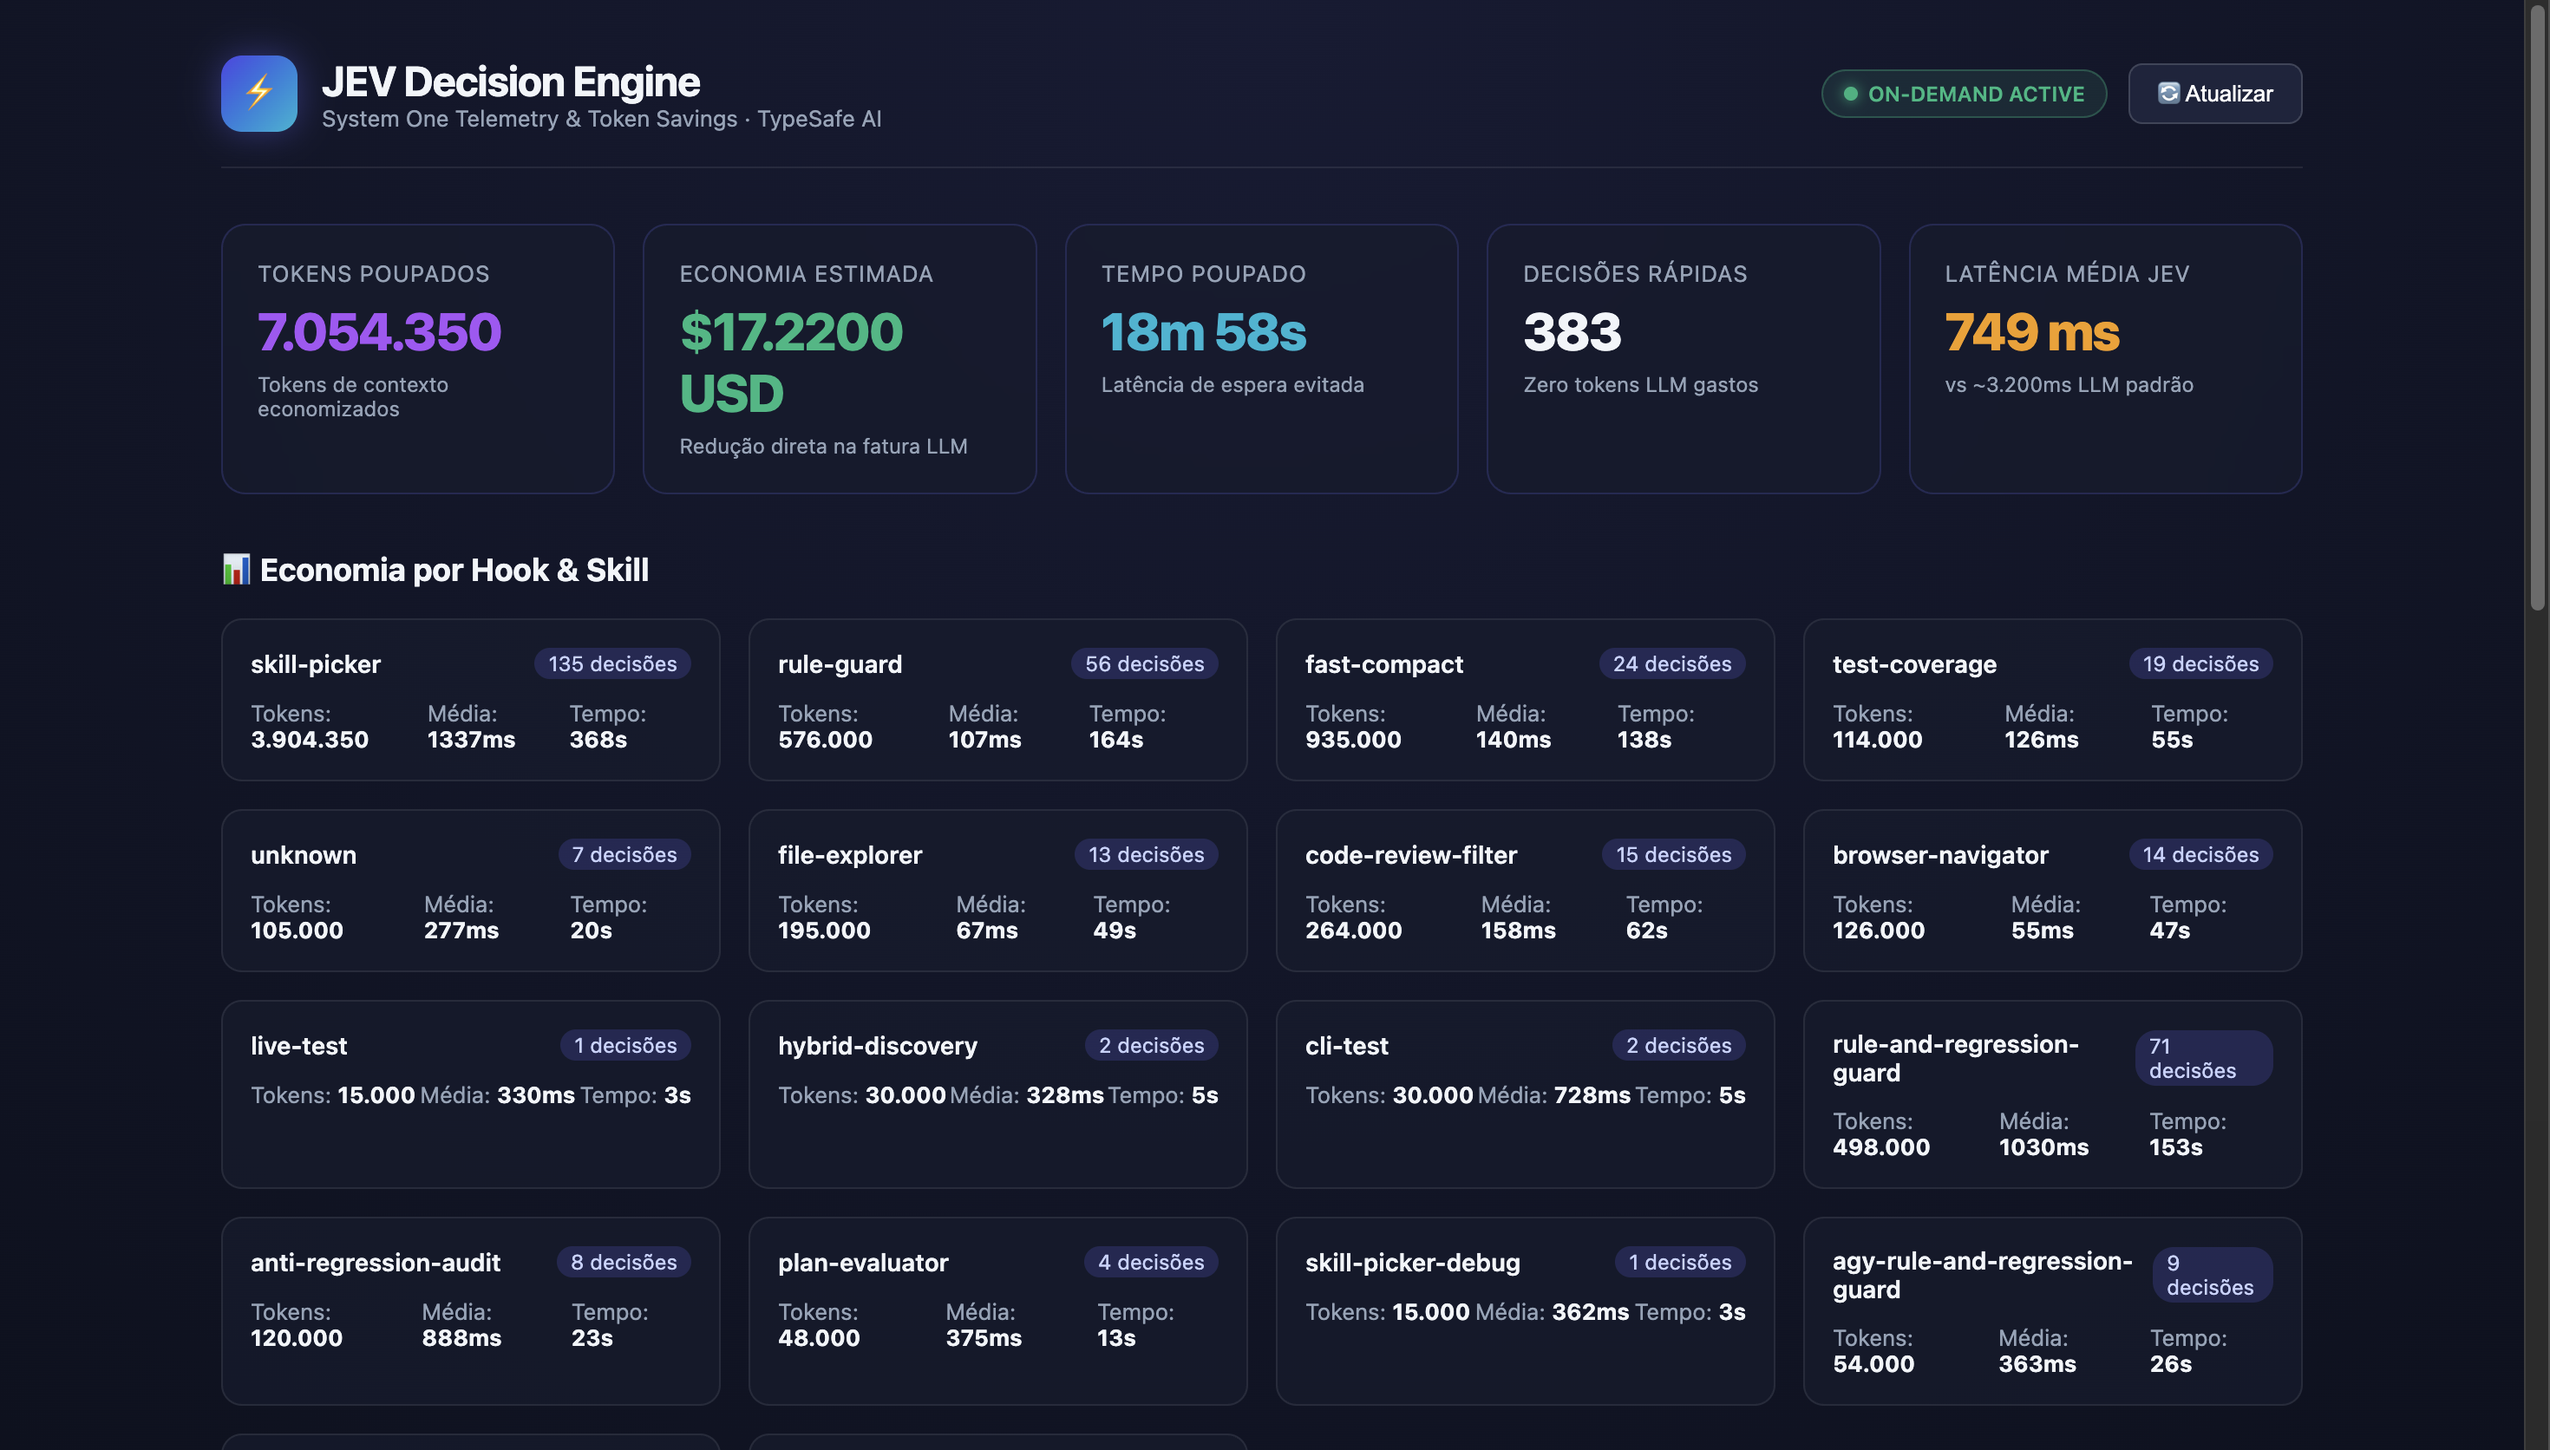
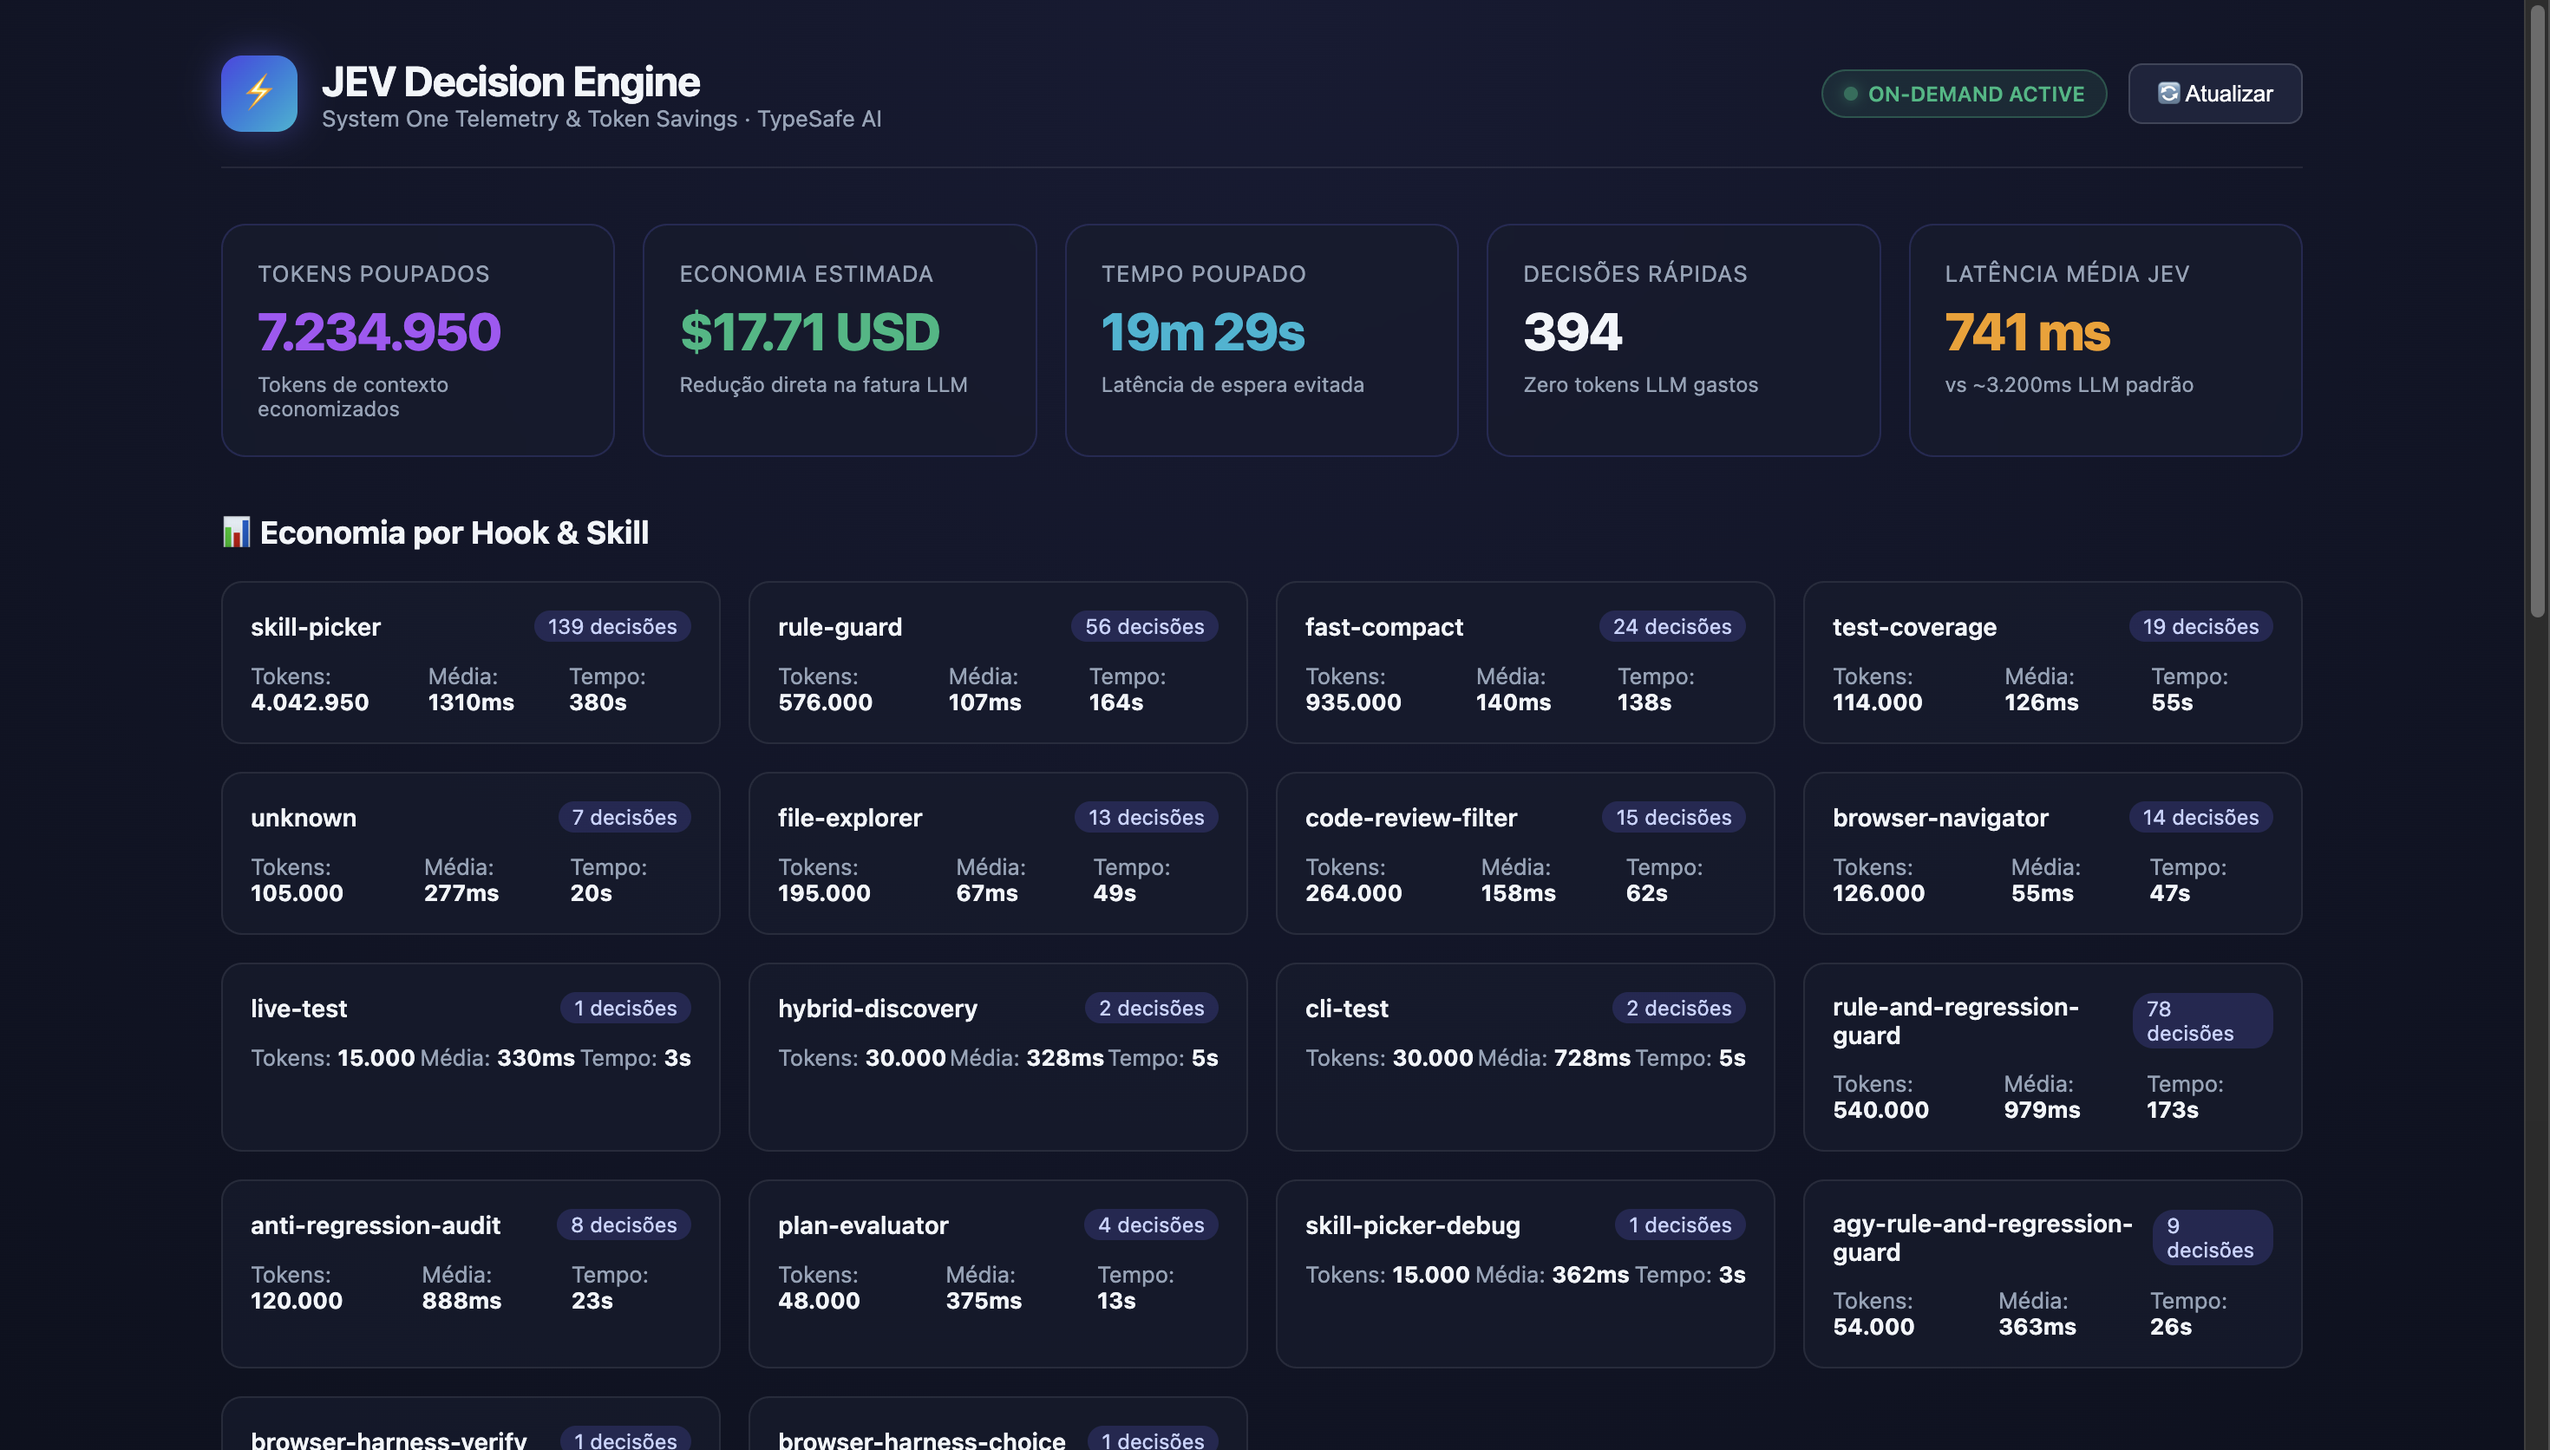
fix(dashboard): show cost with 2 decimal places
toFixed(4) rendered $17.7150; now $17.71. Updated screenshot.

diff --git a/src/dashboard.js b/src/dashboard.js
@@ -233,7 +233,7 @@ export function createDashboardHtml(initialData, projectDir) {
 
     function render(data) {
       document.getElementById('val-tokens').innerText = (data.total_tokens_saved || 0).toLocaleString('pt-BR');
-      document.getElementById('val-cost').innerText = '$' + (data.total_cost_saved_usd || 0).toFixed(4) + ' USD';
+      document.getElementById('val-cost').innerText = '$' + (data.total_cost_saved_usd || 0).toFixed(2) + ' USD';
       
       const sec = data.total_time_saved_sec || 0;
       if (sec >= 60) {

diff --git a/README.md b/README.md
@@ -328,7 +328,7 @@ View it with `jev gain` or visualize it with `jev dashboard`.
 
 ![JEV Telemetry Dashboard](docs/jev-dashboard.png)
 
-Measured in production use: **~749 ms average decision latency** (vs ~3,200 ms LLM), **7.0M+ context tokens spared**, **~$17.22 USD saved** across **383 decisions**.
+Measured in production use: **~749 ms average decision latency** (vs ~3,200 ms LLM), **7.0M+ context tokens spared**, **~$17.71 USD saved** across **383 decisions**.
 
 ---
 
